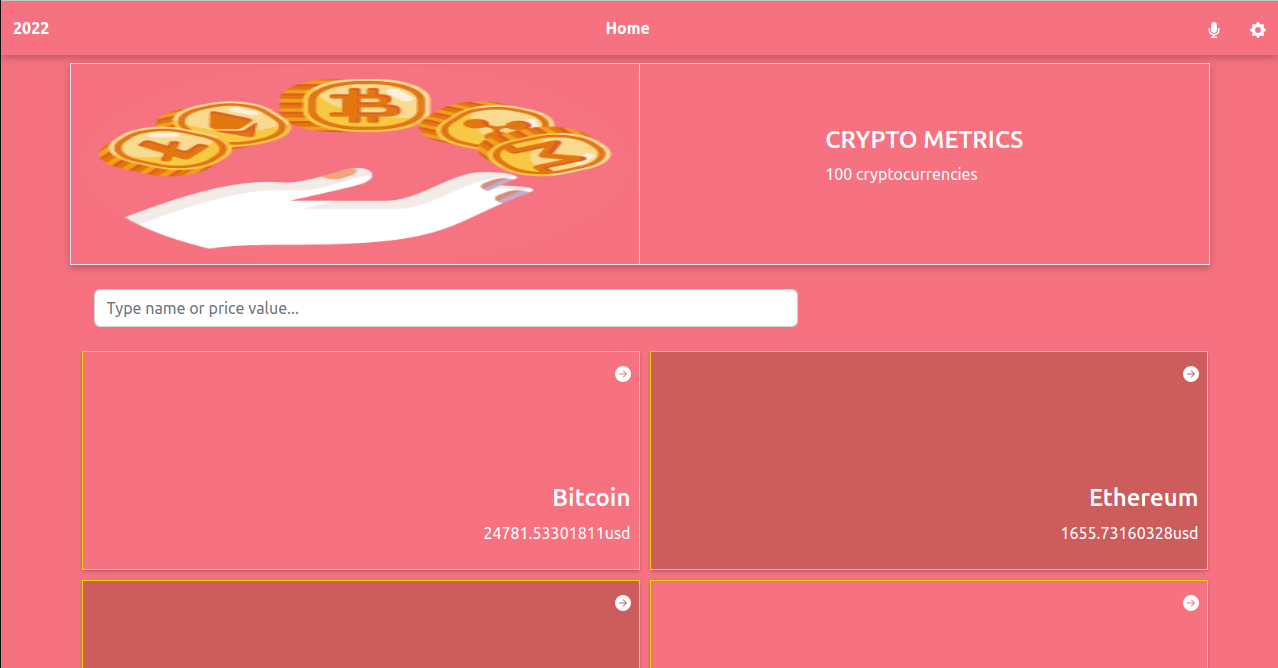
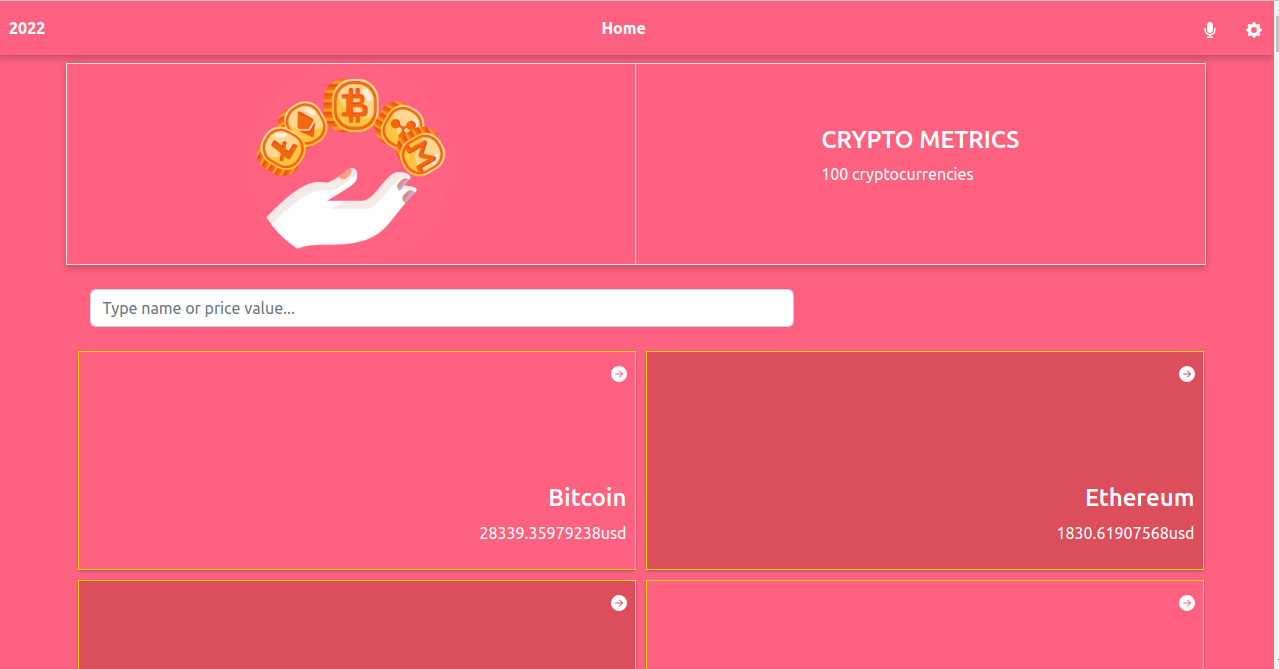
Fix color contrast issues

diff --git a/css/styles.css b/css/styles.css
@@ -6,10 +6,10 @@
   --white-border: 1px solid #fff;
   --white-text: #fff;
   --dark-text: #172b4d;
-  --blue-text: #396df2;
+  --blue-text: #084bf7;;
   --blue-bg: #396df2;
   --blue-border: 1px solid#396df2;
-  --blue-bg: #6070ff;
+
   /* --blue-text: hsl(234, 90%, 49%); */
   --font-weight-700: 700;
   --font-weight-600: 600;
@@ -378,7 +378,7 @@ ul {
   font-weight: var(--font-weight-600);
   font-size: 13px;
   line-height: 16px;
-  color: #344563;
+  color: var(--dark-text);
   flex: none;
   order: 0;
   flex-grow: 0;
@@ -411,6 +411,7 @@ ul {
 .ptag {
   font-size: 13px;
   line-height: 16px;
+  color: var(--dark-text) !important;
 }
 
 .ptag2,
@@ -424,12 +425,12 @@ ul {
 .ptag3,
 .ptag5 {
   font-weight: var(--font-weight-600);
-  color: #7a869a;
+  color: var(--dark-text);
 }
 
 .description {
   font-weight: 400;
-  color: #344563;
+  color: var(--dark-text);
   line-height: 24px;
 }
 
@@ -451,7 +452,7 @@ ul {
   line-height: 16px;
   letter-spacing: 0.03em;
   color: var(--blue-text);
-  background-color: #ebebff;
+  background-color: #f6f6fb;
   padding: 4px 12px;
   border-radius: 8px;
 }
@@ -462,12 +463,11 @@ ul {
 
 #myModal .btn:hover,
 #works .btn:hover,
-#myModal .btn:hover,
+#myModal .btn:focus,
 #works .btn:focus {
   background-color: var(--blue-bg);
   color: var(--white-text);
 }
-
 
 #about .btn:hover,
 #about .btn:focus {
@@ -517,7 +517,7 @@ ul {
 
 .connect-text {
   font-weight: var(--font-weight-500);
-  color: #7f8cff;
+  color: var(--dark-text);
   font-size: 16px;
   line-height: 24px;
 }
@@ -558,7 +558,7 @@ ul {
   font-size: 15px;
   line-height: 20px;
   margin-left: 20px;
-  color: #253858;
+  color: var(--dark-text);
 }
 
 hr {
@@ -615,7 +615,7 @@ hr {
   font-size: 20px;
   line-height: 28px;
   text-align: center;
-  color: #ebebff;
+  color: #f6f6fb;
 }
 
 .contact-form {
@@ -720,7 +720,6 @@ hr {
 
 /* Begin Desktop Version CSS */
 @media screen and (min-width: 768px) {
-
   /* Begin Header Section */
   .header {
     background-color: #2929e9b8;
@@ -896,7 +895,7 @@ hr {
     padding-top: 20px;
     padding-bottom: 20px;
     margin-left: 0;
-    color: #253858;
+    color: var(--dark-text);
   }
 
   .inner-item-left {
@@ -997,9 +996,6 @@ hr {
     position: relative;
     background-color: var(--white-bg);
     margin: 0 auto;
-
-    /* margin-bottom: 100px; */
-    padding-bottom: 25px;
     width: 60%;
     border-radius: 15px;
     padding: 20px;

diff --git a/index.html b/index.html
@@ -140,7 +140,10 @@
           Myself
         </h2>
         <p class="description about-description">
-          As a Multidisciplinary Software Developer, I possess extensive hands-on experience in developing responsive, dynamic, and high-performant applications using various technologies. These include JavaScript, jQuery, React, Redux, NextJs, NodeJs, Express, Ruby, Ruby on Rails, PHP, Laravel, Python, Django, Java, Spring Boot, React Native, Flutter, PostgreSQL, MySQL, and MongoDB. In addition to my technical skills, I also possess exceptional soft skills. These include time management, expectation handling, working under pressure to meet deadlines, great communication skills, fluency in English, the ability to acquire new technical skills in a short period, and remote collaboration through pair programming.
+          I'm a software developer! I can help you build a product, feature or website Look through some of my work
+        and experience! If you like what you see and have a project you need to be coded, don't hesitate to contact me.
+        </p>
+         
         <h2 class="connect-text">LET'S CONNECT</h2>
         <!-- Social media icons -->
         <ul class="social-media-2">
